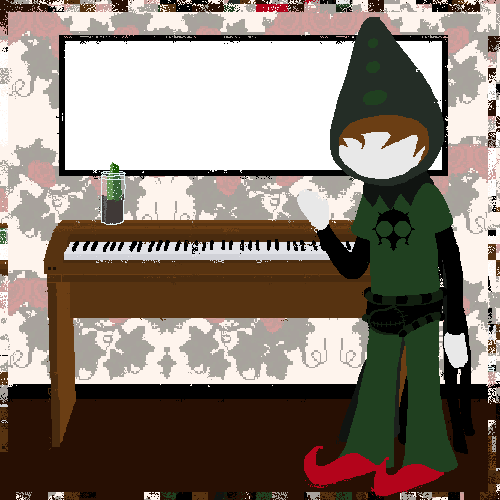
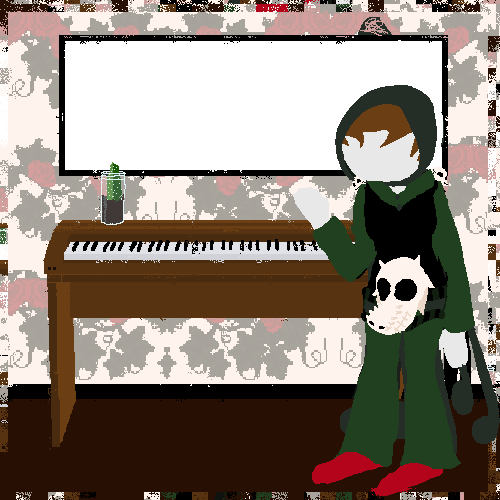
store consort is back

diff --git a/web/scripts/Gameplay/Consort.dart b/web/scripts/Gameplay/Consort.dart
@@ -80,6 +80,7 @@ class Consort {
             chats.add("don't wake the TITAN!!",0.5);
             chats.add("they say the PRINCE will save us!!",0.5);
             chats.add("they say the VANDAL will save us!!",0.5);
+            chats.add("they say the REAPER will save us!!",0.5);
             chats.add("so many eyes :( :(",0.3);
             chats.add("we had to stop planting trees because Nidhogg would wake!!",0.1);
             chats.add("even if the Nidhogg causes all trees to die, the seed vault will survive!!",0.5);
@@ -180,12 +181,15 @@ class FAQConsort extends Consort {
 }
 
 class StoreConsort extends Consort {
-    StoreConsort(Element container, int x, String src) : super(container, x, src);
+
+    StoreConsort(Element container, int x, String src) : super(container, x, src) {
+        print("store consort is go");
+    }
 
     @override
     void initTopics() {
-        chats.add("hi!!");
-        chats.add("",10);
+        chats.add("hi!!",1);
+        chats.add("",5);
     }
 }
 

diff --git a/web/scripts/Controllers/meteor.dart b/web/scripts/Controllers/meteor.dart
@@ -11,8 +11,6 @@ Future<Null> main() async{
     await loadNavbar();
     SaveSlot.handleSaveSlots();
 
-    loadBackups(output);
-    saveBackups(output);
     changeFPS();
 }
 void changeFPS() {
@@ -171,7 +169,7 @@ class SaveSlot {
 
     String label; //is also the key
     DateTime lastPlayed = new DateTime.now();
-    String get size =>  "${((data.codeUnits.length + sharedData.codeUnits.length)/1024/1024).toStringAsFixed(4)} MBs";
+    String get size =>  "${((data.codeUnits.length + sharedData.codeUnits.length)/1024).toStringAsFixed(2)} KB";
     int money;
     int numberArchives;
     int numberEssences;
@@ -224,6 +222,7 @@ class SaveSlot {
         if(current) {
             window.localStorage.remove(World.SHAREDKEY);
             window.localStorage.remove(World.SAVEKEY);
+            window.location.href = "index.html";
         }else {
             World newWorld = new World(false); //its reset
             data = newWorld.toDataString();

diff --git a/web/scripts/Controllers/storeController.dart b/web/scripts/Controllers/storeController.dart
@@ -37,7 +37,7 @@ Future<Null> main() async{
     //example store, TODO have actual inventory system loaded from cache
     Store store = new Store(ygdrassil, spawnInventory(), ygdrassil.underWorld.player.inventory.saleItems);
     store.createContainer(output);
-    new StoreConsort(store.container,400,"0.gif")..speechBubbleAnchor = 400..chatterRelativeLeft=200..chatterBounce=5;;
+    new StoreConsort(store.container,400,"0.gif")..speechBubbleAnchor = 600..chatterRelativeLeft=200..chatterBounce=5;
     store.render();
     finallyDoneLoading = new DateTime.now();
     Duration diff = finallyDoneLoading.difference(firstLoad);

diff --git a/web/meteor.html b/web/meteor.html
@@ -29,7 +29,7 @@
 <div id = "navbar"></div>
 
 <div id="output">
-    It is recommended that you download back ups of your saves frequently. There is one save for your main set of data, and one save for money, which is shared among FarragoFiction sims.<br><Br>
+    It is recommended that you make back ups of your saves frequently. There is one save for your main set of data, and one save for money (and secrets), which is shared among FarragoFiction sims.<br><Br>
 </div>
 
 </body>

diff --git a/web/scripts/Gameplay/Inventory.dart b/web/scripts/Gameplay/Inventory.dart
@@ -101,6 +101,7 @@ class Inventory extends Object with IterableMixin<Inventoryable>{
 
     void loadInventoryFromJSON(String idontevenKnow) {
         //print("loading inventory from $idontevenKnow");
+        inventory.clear(); //i'm loading it so ignore whatever is already here
         if(idontevenKnow == null) return;
         List<dynamic> what = JSON.decode(idontevenKnow);
         //print("what json is $what");

diff --git a/web/css/store.css b/web/css/store.css
@@ -37,7 +37,7 @@ body{
 
 .consort{
     position:absolute;
-    bottom: 230px;
+    bottom: 430px;
     z-index: -1;
 
 }
